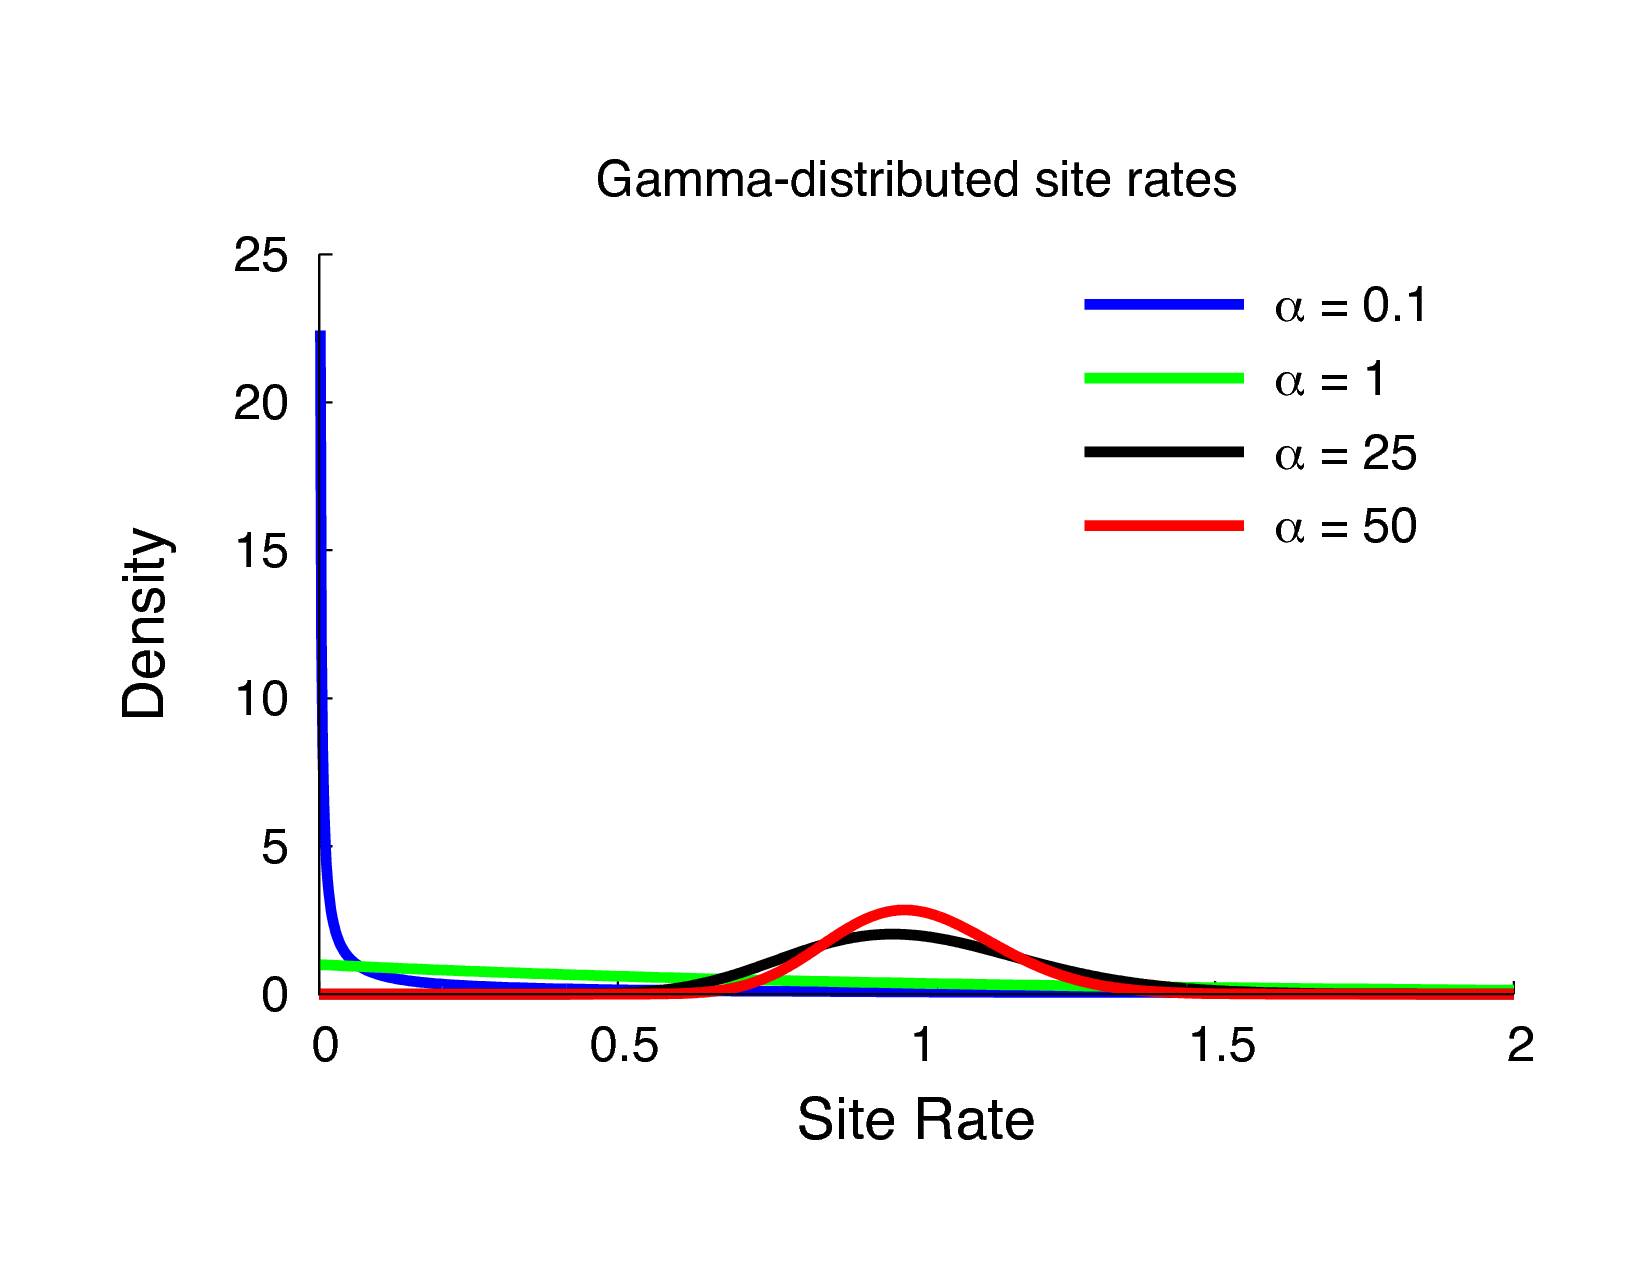
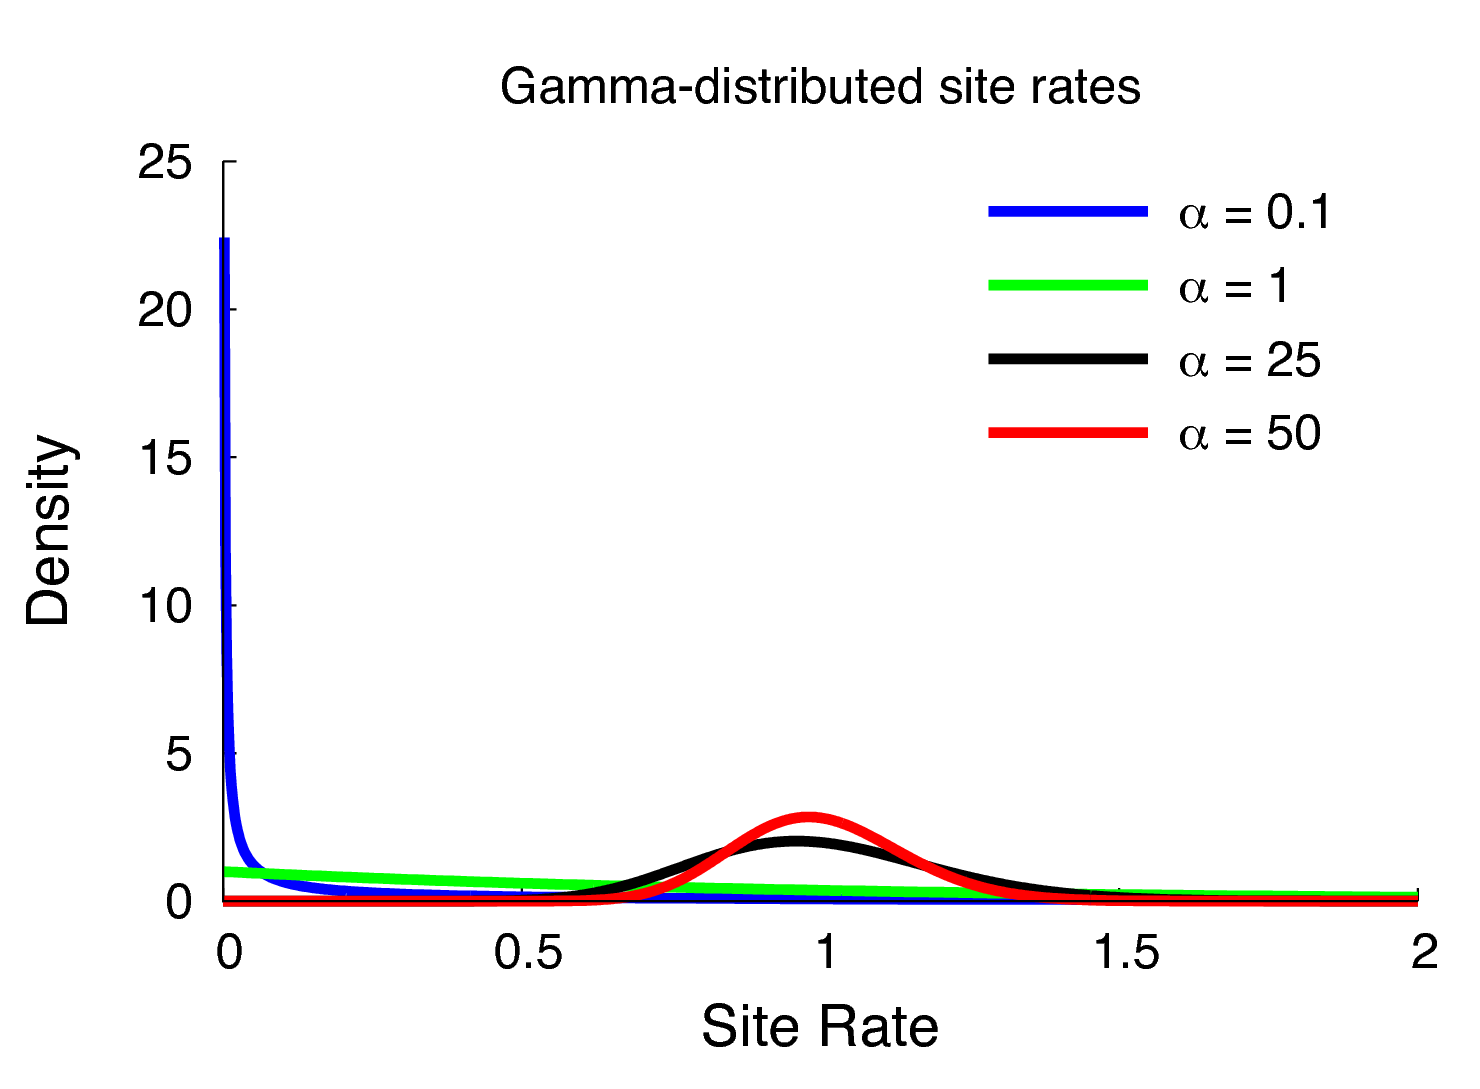
made some of the figures smaller in the ctmc

diff --git a/tutorials/ctmc/index.md b/tutorials/ctmc/index.md
@@ -798,7 +798,7 @@ Alternatively, we might consider an asymmetric Dirichlet parameterization that c
 Yet another asymmetric prior could specify that each of the six GTR rates had a different value conforming to a Dirichlet(2,4,6,8,10,12). This would lead to a different prior probability density for each rate parameter ({% ref dirichletFig %}d). Without strong prior knowledge about the pattern of relative rates, however, we can better reflect our uncertainty by using a vague prior on the GTR rates. Notably, all patterns of relative rates have the same probability density under `er_prior <- v(1,1,1,1,1,1)`.
 
 {% figure dirichletFig %}
-<img src="figures/dirichlet_rates.png" />
+<img src="figures/dirichlet_rates.png" width="600" />
 {% figcaption %}
 Four different examples of Dirichlet priors on exchangeability rates.
 {% endfigcaption %}
@@ -850,7 +850,7 @@ Q := fnGTR(er,pi)
 Members of the GTR family of substitution models assume that rates are homogeneous across sites, an assumption that is often violated by real data. We can accommodate variation in substitution rate among sites (ASRV) by adopting the discrete-gamma model {% cite Yang1994a %}. This model assumes that the substitution rate at each site is a random variable that is described by a discretized gamma distribution, which has two parameters: the shape parameter, $\alpha$, and the rate parameter, $\beta$. In order that we can interpret the branch lengths as the expected number of substitutions per site, this model assumes that the mean site rate is equal to 1. The mean of the gamma is equal to $\alpha/\beta$, so a mean-one gamma is specified by setting the two parameters to be equal, $\alpha=\beta$. This means that we can fully describe the gamma distribution with the single shape parameter, $\alpha$. The degree of among-site substitution rate variation is inversely proportional to the value of the $\alpha$-shape parameter. As the value of the $\alpha$-shape increases, the gamma distribution increasingly resembles a normal distribution with decreasing variance, which therefore corresponds to decreasing levels of ASRV ({% ref asrhGammaFig %}). By contrast, when the value of the $\alpha$-shape parameter is $< 1$, the gamma distribution assumes a concave distribution that concentrates most of the prior density on low rates, but retains some prior mass on sites with very high rates, which therefore corresponds to high levels of ASRV ({% ref asrhGammaFig %}). Note that, when $\alpha = 1$, the gamma distribution collapses to an exponential distribution with a rate parameter equal to $\beta$.
 
 {% figure asrhGammaFig %}
-<img src="figures/asrh_gamma.png" />
+<img src="figures/asrh_gamma.png" width="600" />
 {% figcaption %}
 The probability density of mean-one gamma-distributed rates for different values of the $\alpha$-shape parameter.
 {% endfigcaption %}
